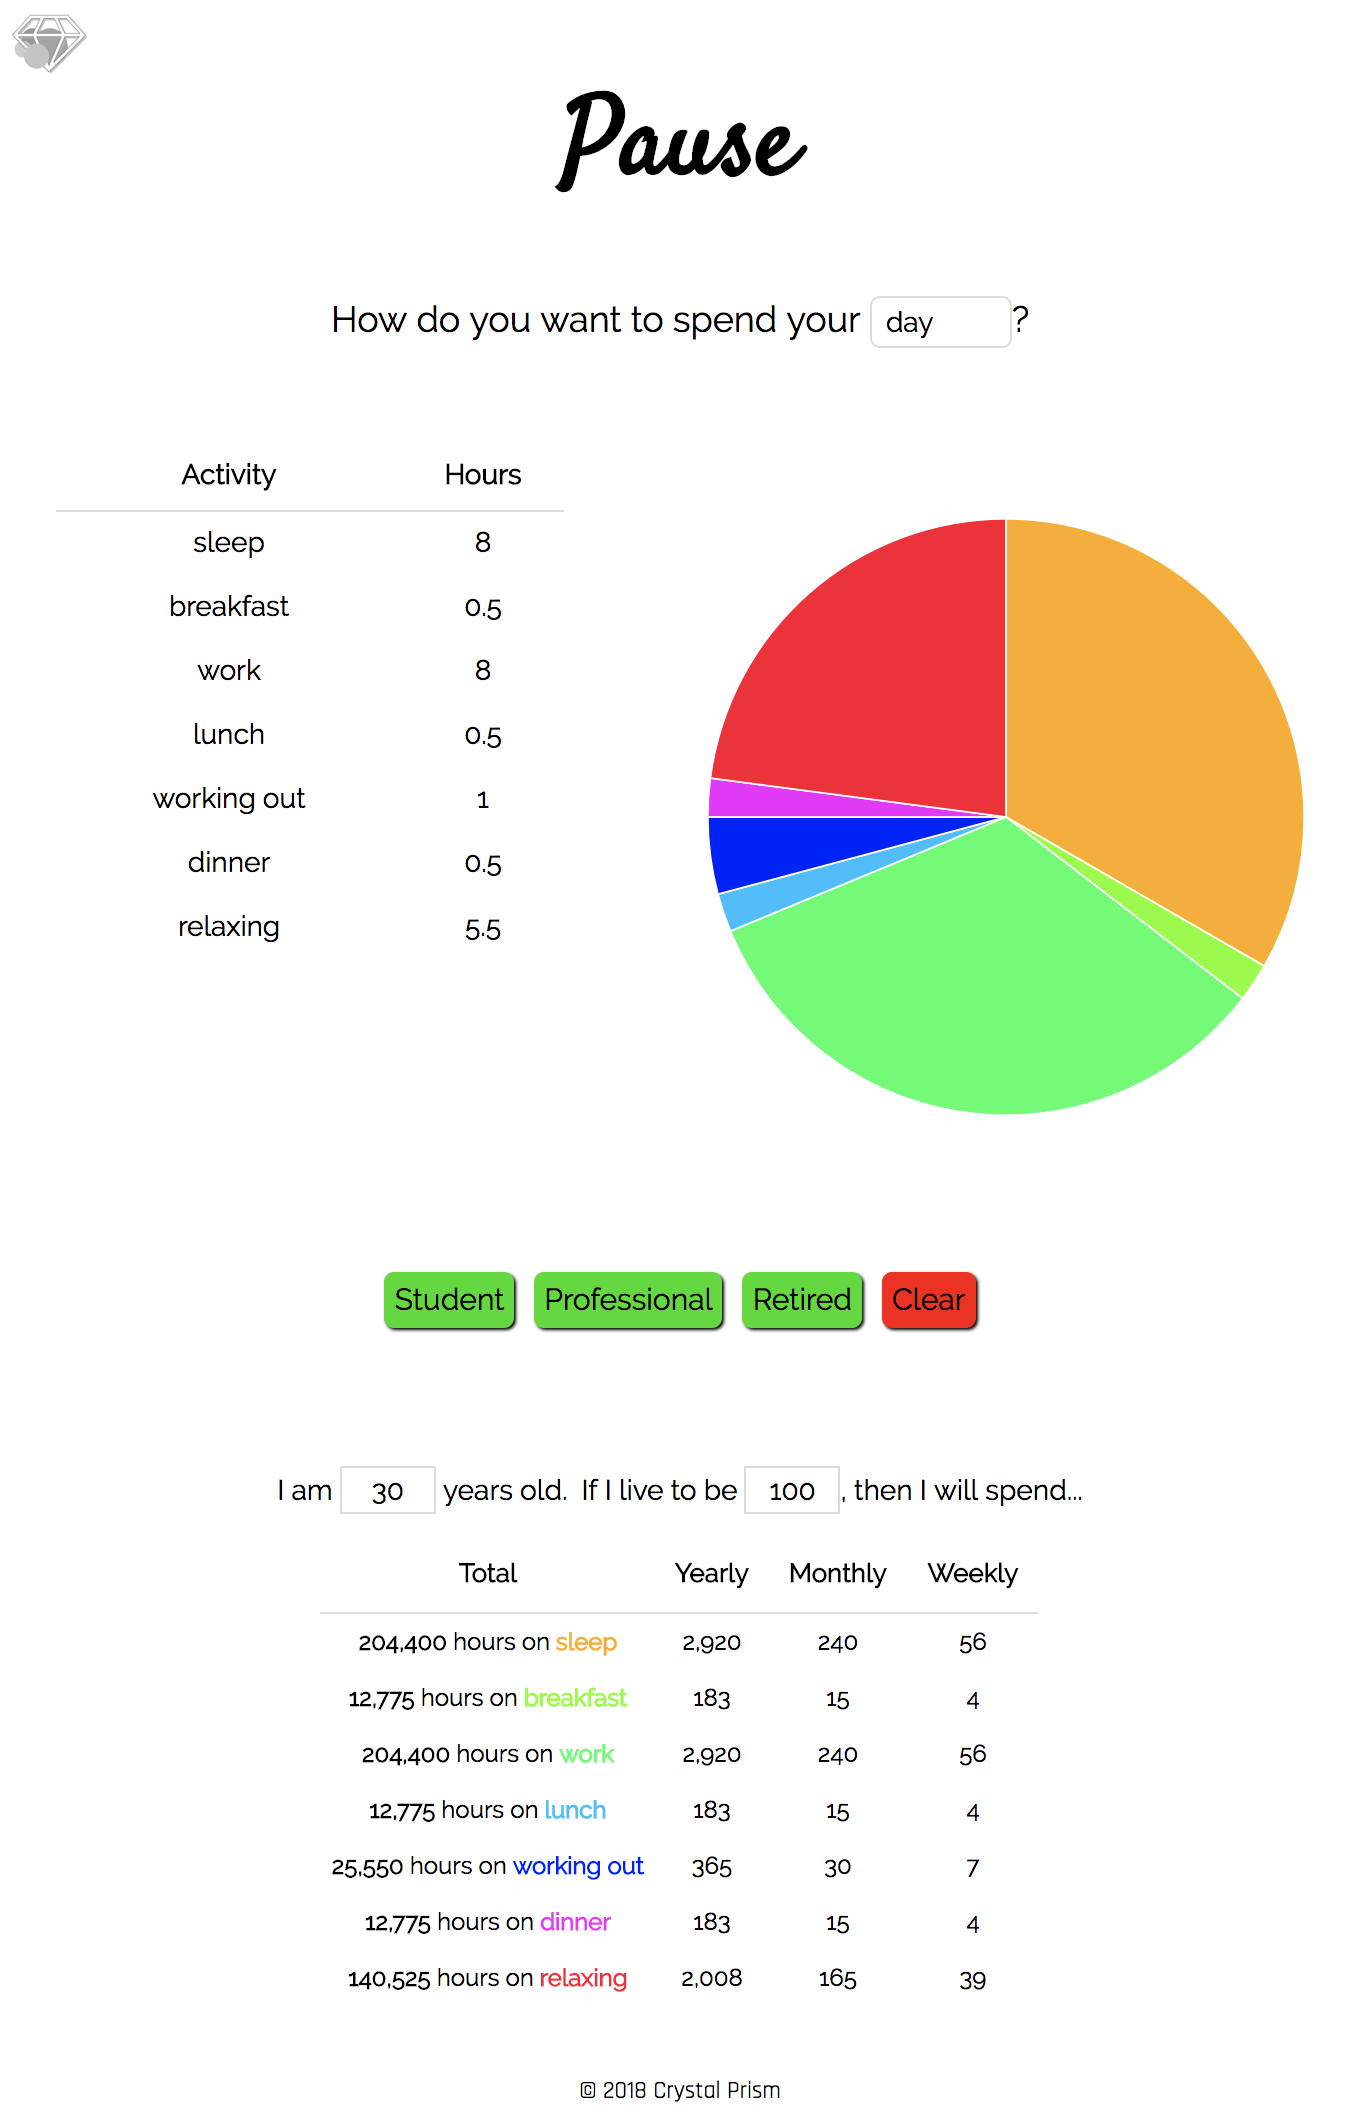
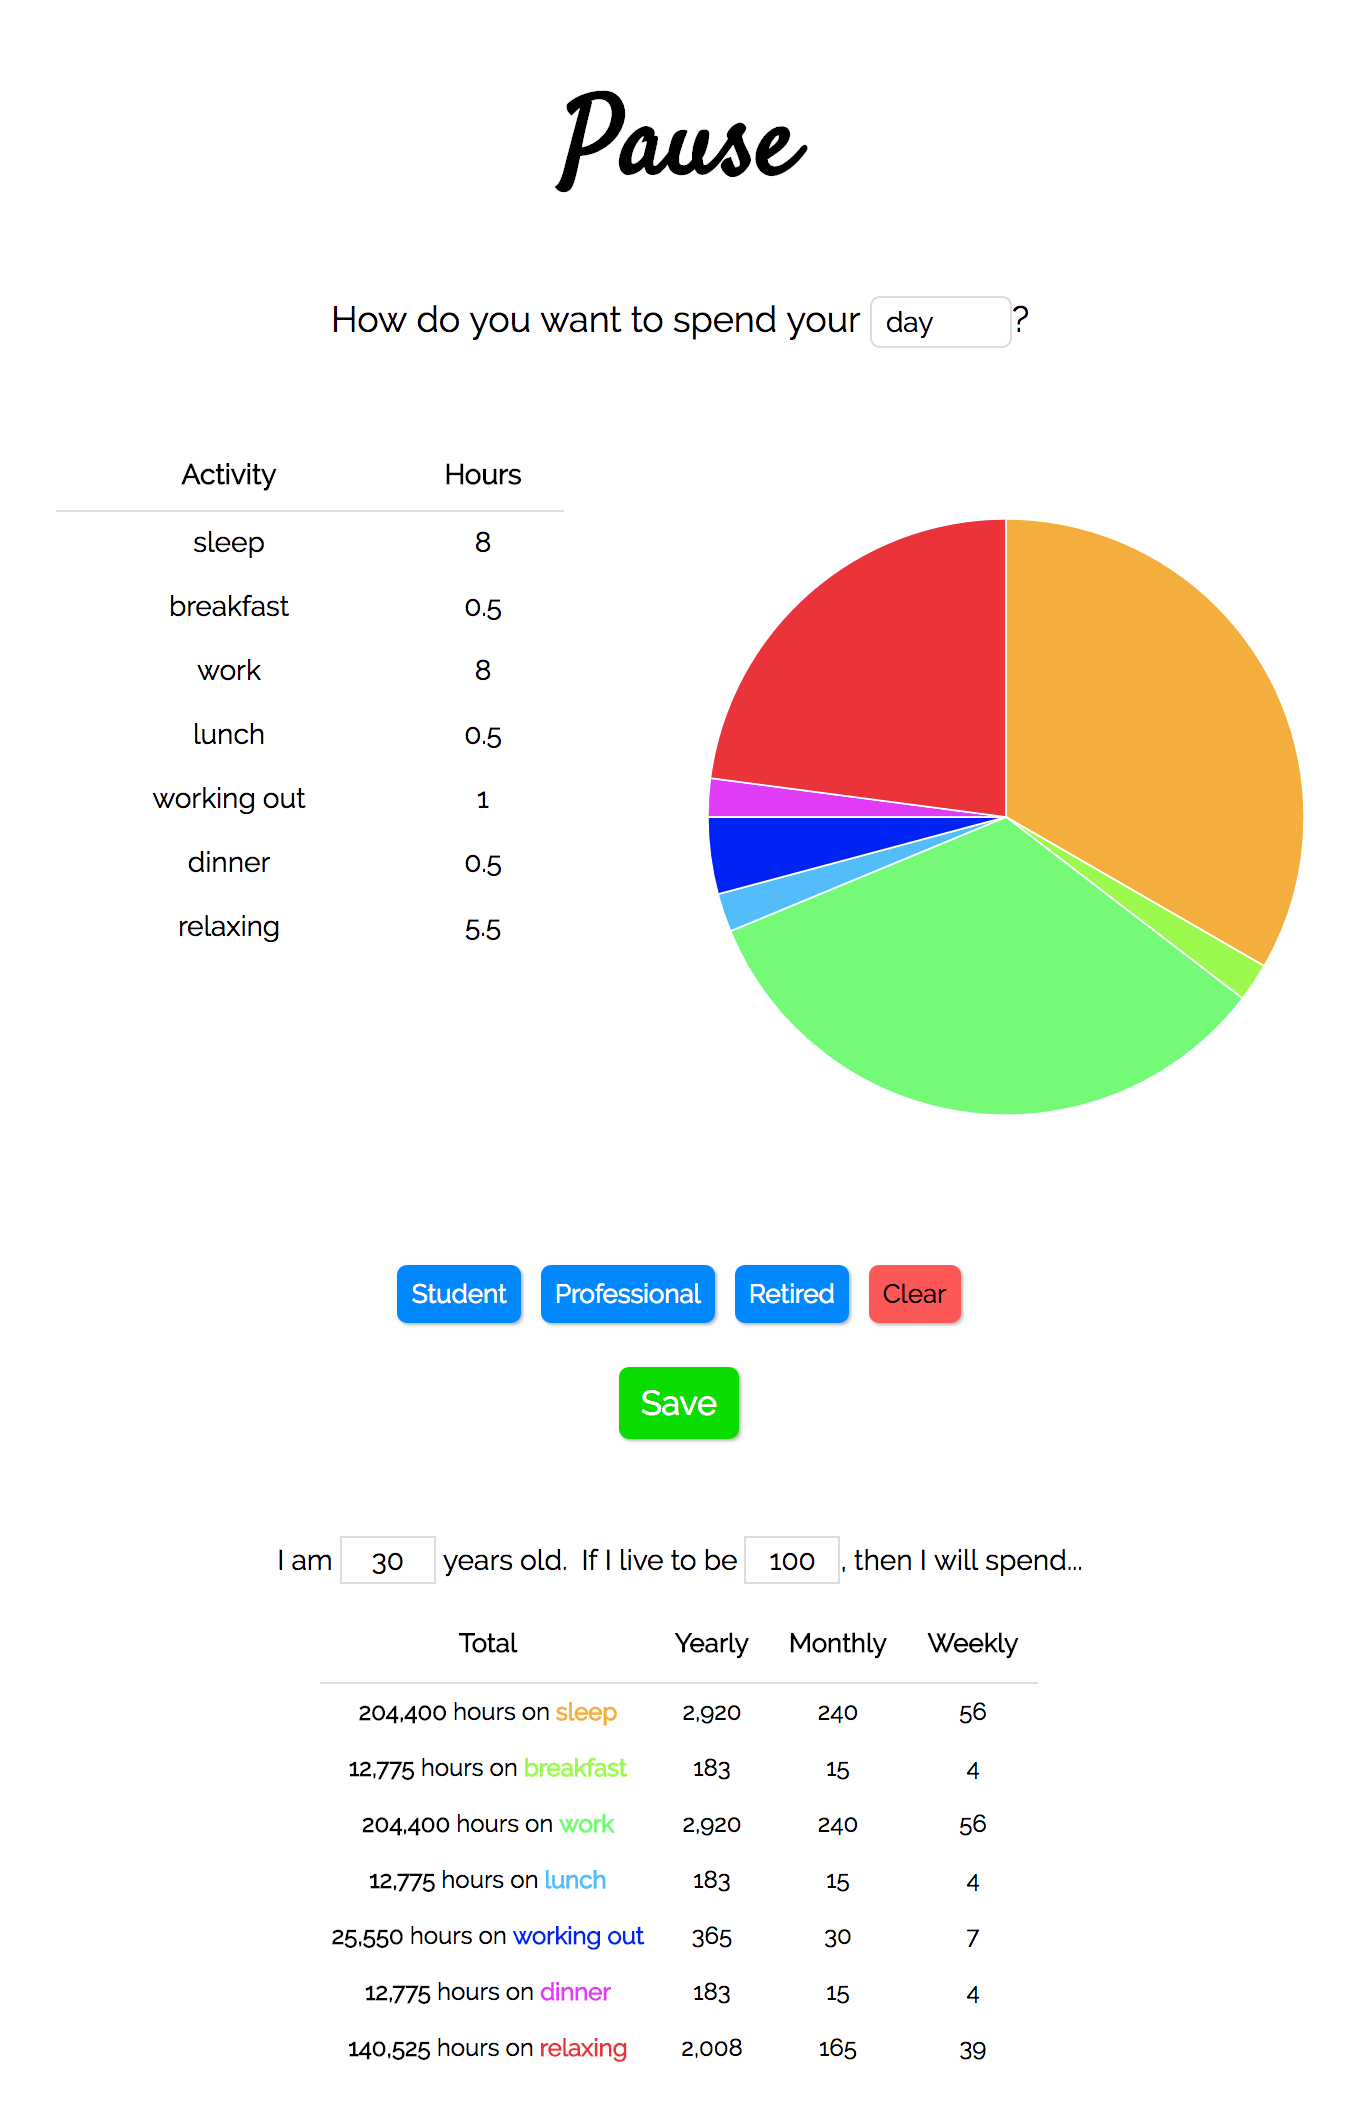
Update button styles for neatness

diff --git a/src/StarterButtons.css b/src/StarterButtons.css
@@ -1,15 +1,16 @@
 #button-container button {
-  padding: 5px;
+  padding: 7px;
   border-radius: 5px;
   margin: 5px;
-  box-shadow: 1px 1px 1px #000000;
+  box-shadow: 1px 1px 1px #b7b7b7;
   visibility: visible;
-  background-color: #0edc00;
-  font-size: 15px;
+  background-color: #0088ff;
+  font-size: 13px;
+  color: #ffffff;
 }
 
 #button-container button:hover {
-  background-color: #0db902;
+  background-color: #0078e0;
 }
 
 #button-container button:active {
@@ -17,9 +18,10 @@
 }
 
 #clear {
-  background-color: #ff0000 !important;
+  background-color: #fd5858 !important;
+  color: #000000 !important;
 }
 
 #clear:hover {
-  background-color: #da0101 !important;
+  background-color: #ea4f4f !important;
 }

diff --git a/src/App.css b/src/App.css
@@ -95,17 +95,28 @@ select {
 }
 
 #save-container {
-  margin-top: 20px;
+  margin-top: 12px;
 }
 
 #save {
-  padding: 5px;
+  width: 60px;
+  height: 36px;
+  padding: 7px;
   border-radius: 5px;
   margin: 5px;
-  box-shadow: 1px 1px 1px #000000;
+  box-shadow: 1px 1px 1px #b7b7b7;
   visibility: visible;
-  background-color: #0088ff;
-  font-size: 23px;
+  background-color: #0edc00;
+  font-size: 17px;
+  color: #ffffff;
+}
+
+#save:hover {
+  background-color: #0db902;
+}
+
+#save:active {
+  box-shadow: none !important;
 }
 
 @media only screen and (min-width: 630px) {
